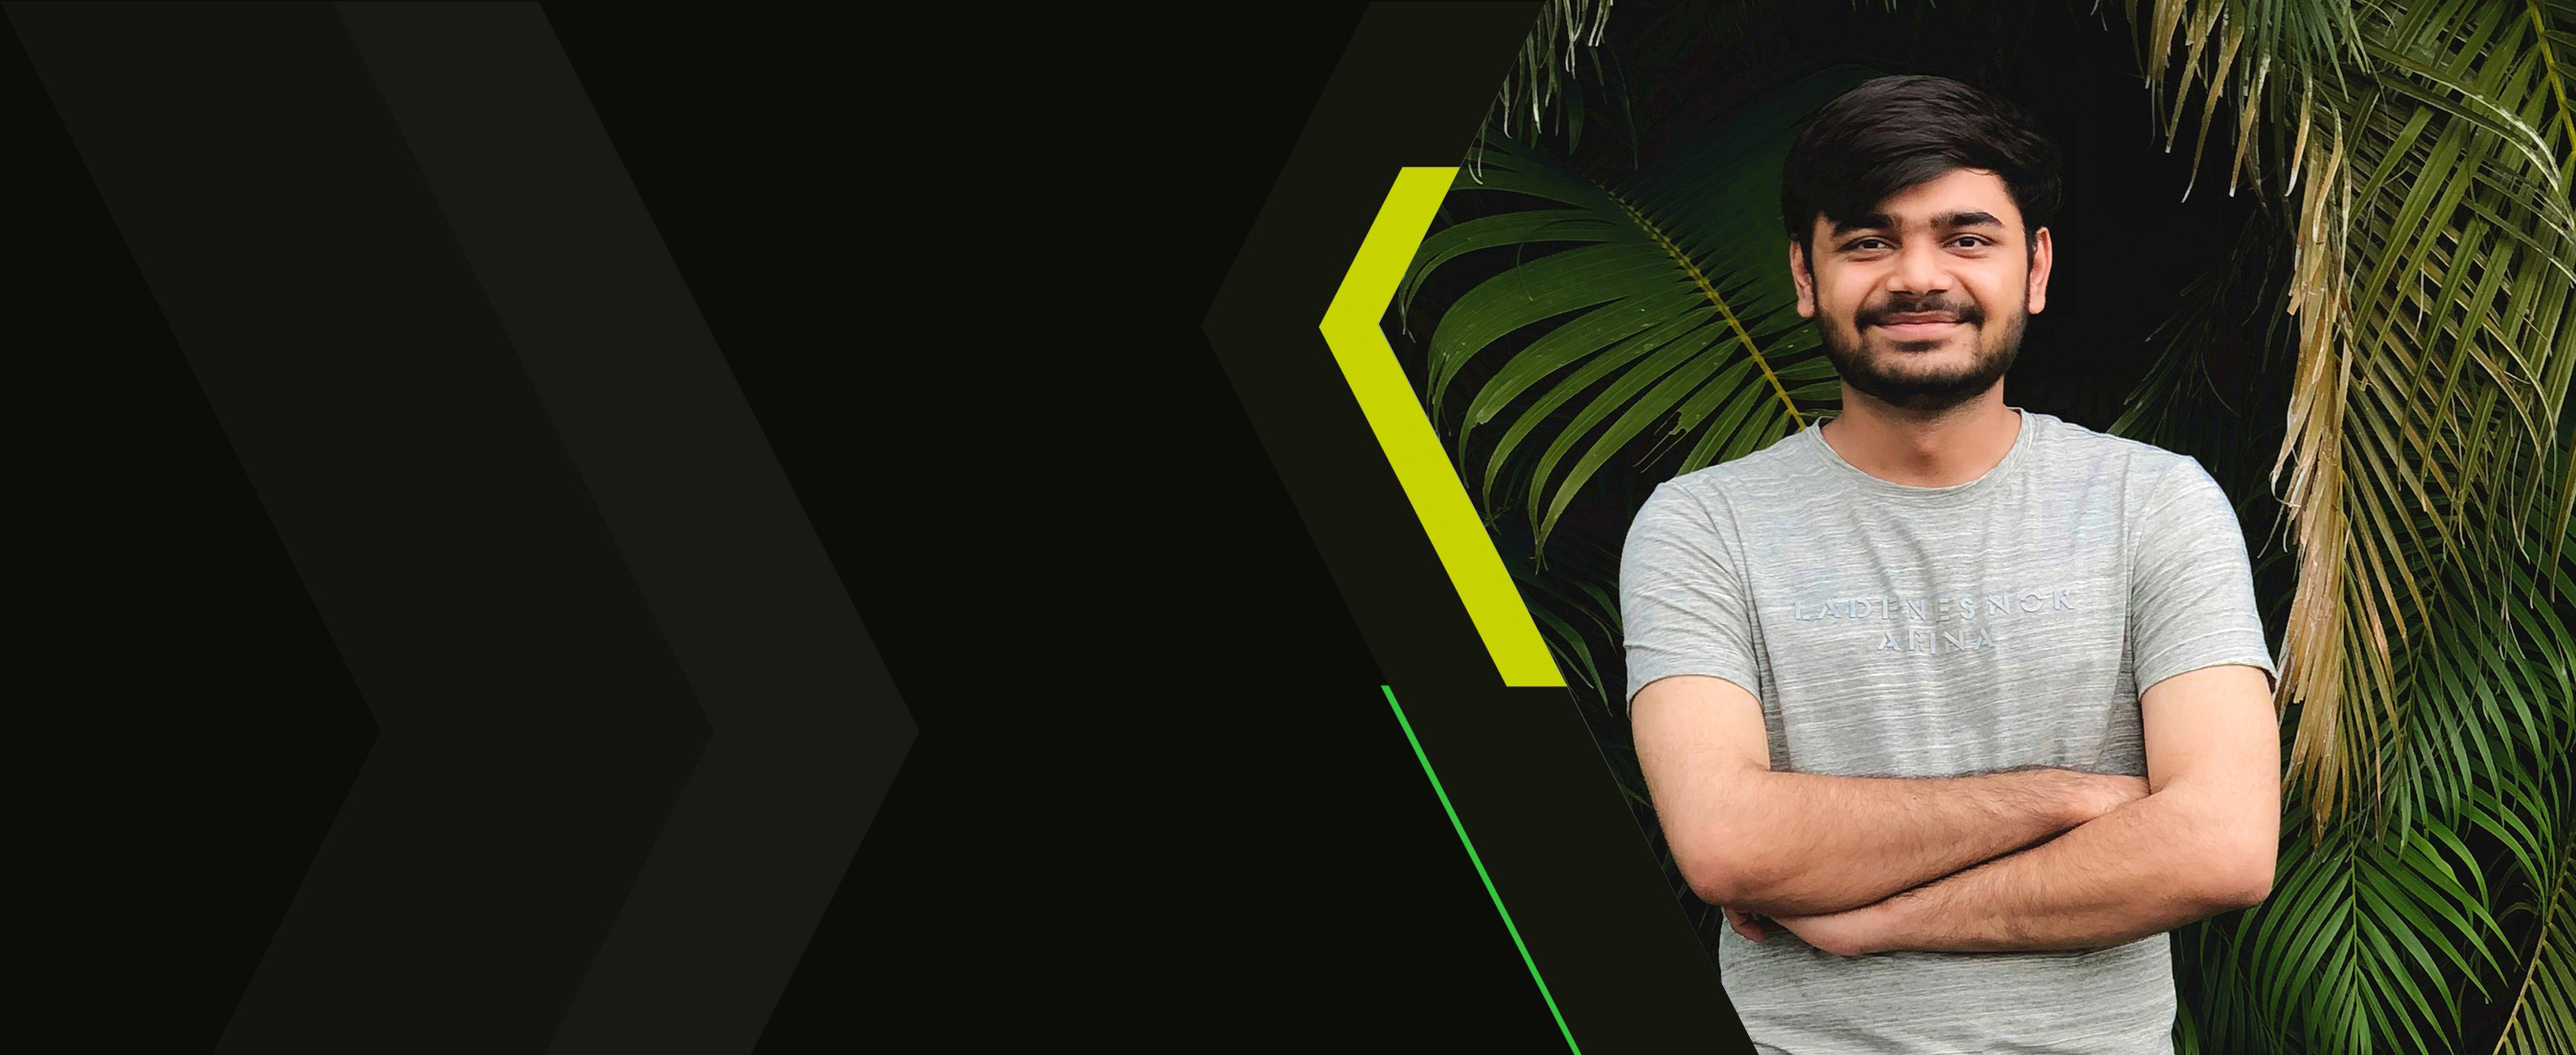
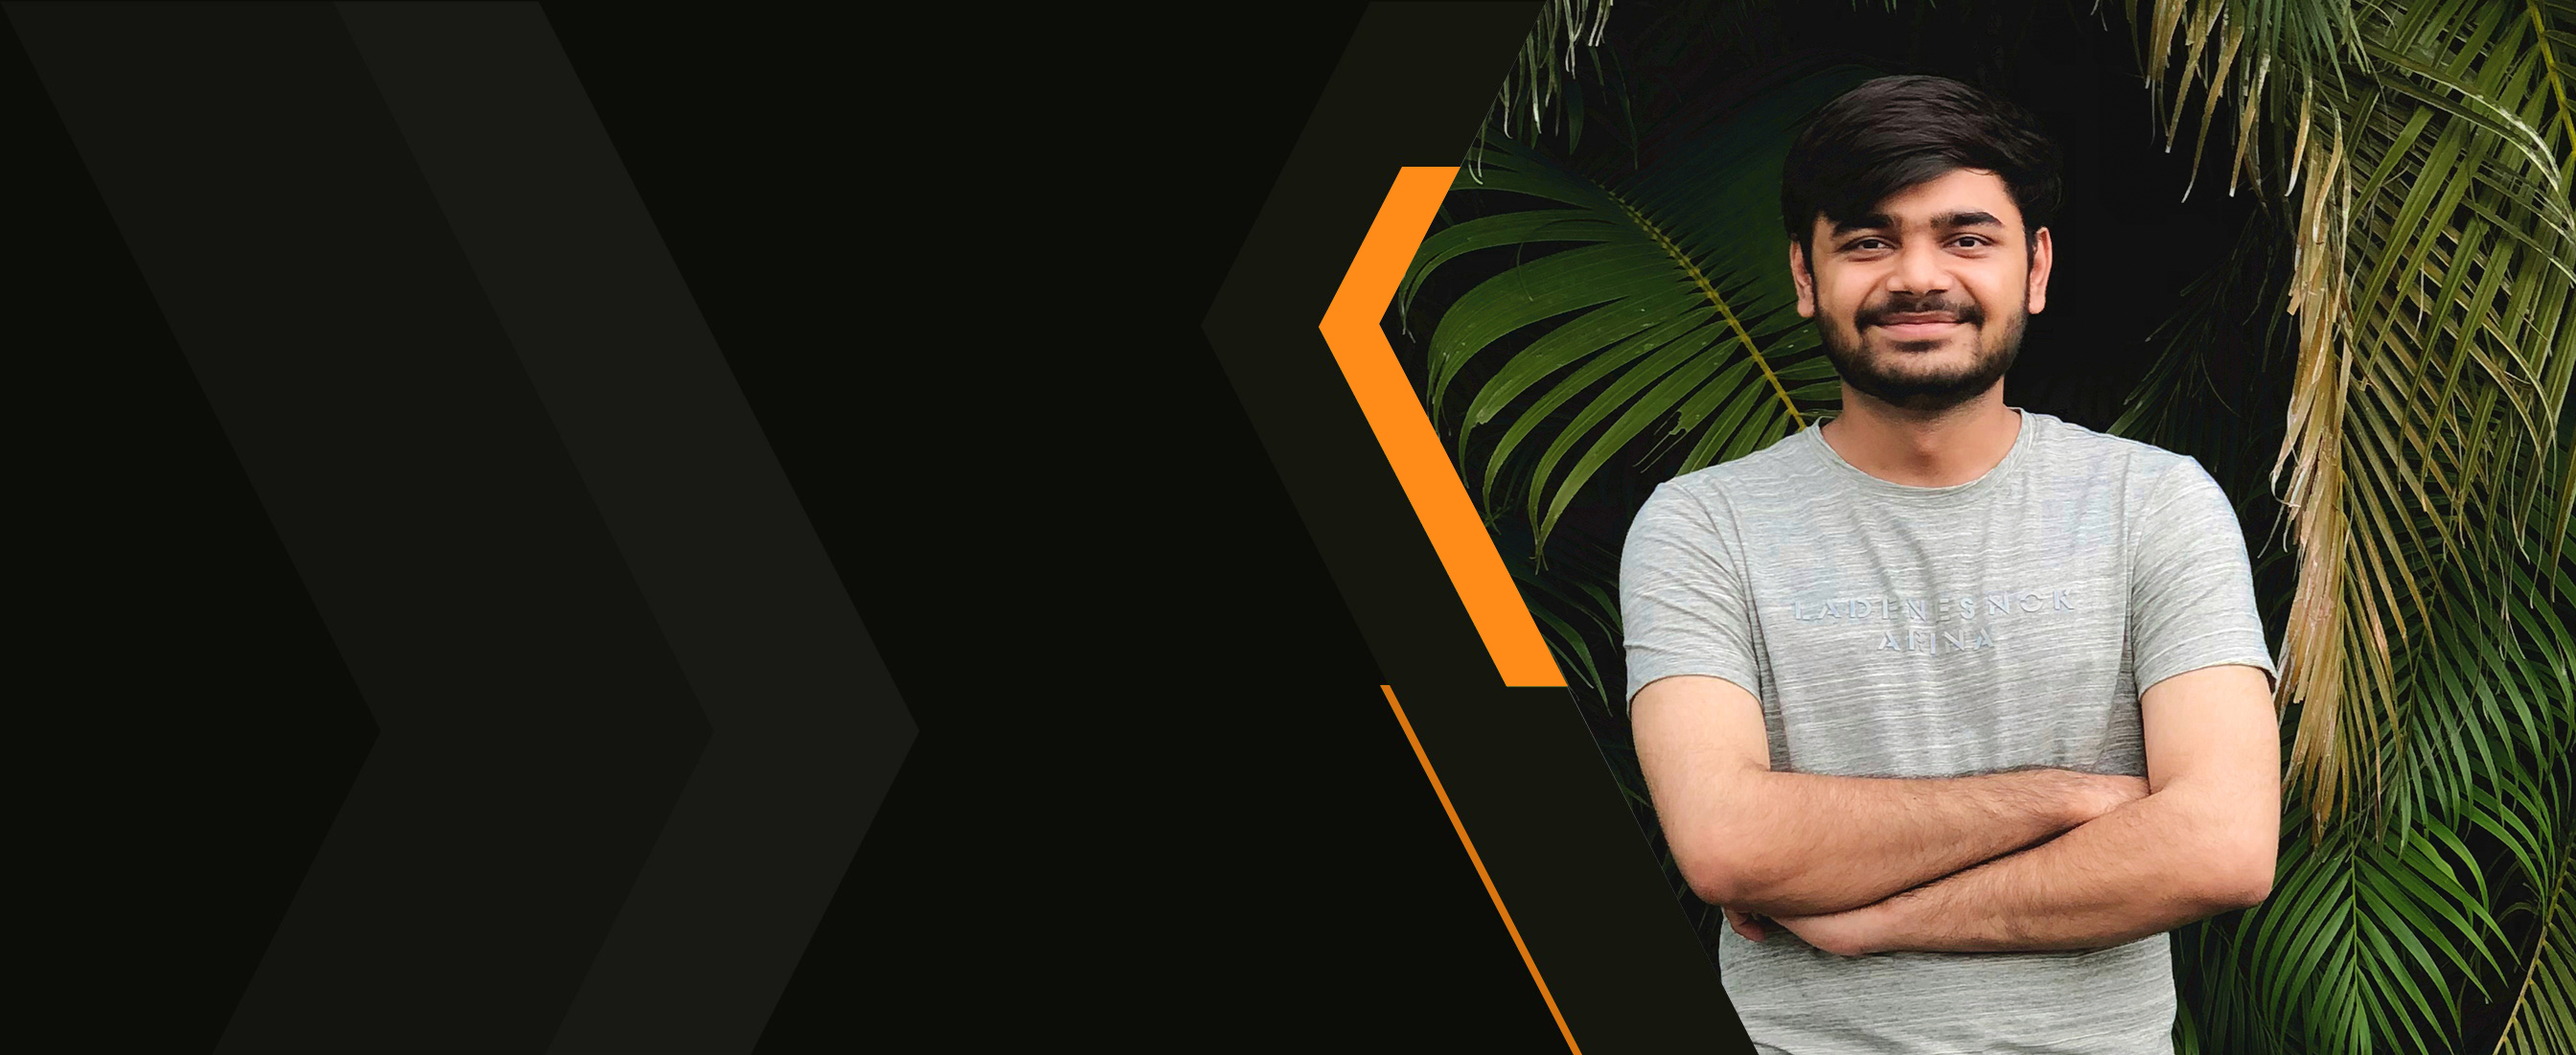
changed theme color

diff --git a/isti-html.vercel.app/css/style.css b/isti-html.vercel.app/css/style.css
@@ -88,8 +88,8 @@ button:focus {
 }
 
 :root {
-  --colorPrimary: #c7d300;
-  --colorSecondary: #37c33e;
+  --colorPrimary: #ff8800;
+  --colorSecondary: #d01313;
   --colorWhite: #ffffff;
   --colorBlack: #0c0c08;
   --colorBodyText: rgba(177, 177, 177, 1);
